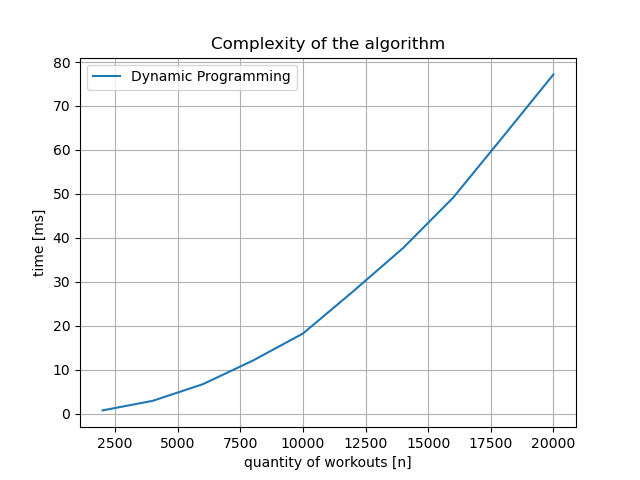
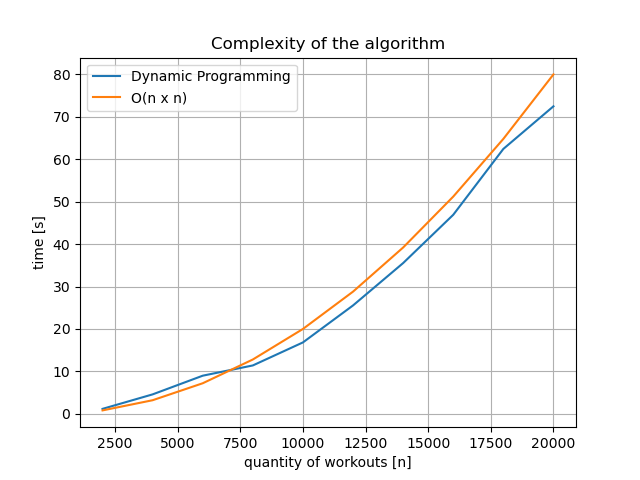
Updating graphics

diff --git a/tp2/graphics.py b/tp2/graphics.py
@@ -10,6 +10,9 @@ MIN = 1
 MAX = 100
 AX = [i for i in range(MINTESTS, MAXTESTS+1, MINTESTS)]
 
+def cuad(n):
+    return 0.0000002 * n**2
+
 def getGraph():
     tests = []
     for i in range(1, NUMTESTS+1):
@@ -34,8 +37,12 @@ def getGraph():
         print("Finished test ", numberTest)
         numberTest += 1
         times.append(dt)
+
+    complexity = [cuad(n) for n in AX]
+
     fig, ax = plt.subplots()
     ax.plot(AX, times, label= 'Dynamic Programming')
+    ax.plot(AX, complexity, label= 'O(n x n)')
     ax.set(xlabel='quantity of workouts [n]', ylabel='time [s]', title='Complexity of the algorithm')
     ax.grid()
     
@@ -44,53 +51,9 @@ def getGraph():
     fig.savefig('graphic.png')
     plt.show()
 
-'''
-def getComparison():
-    test = []
-    times = []
-    for _ in range(NUMTESTS):
-        test.append((randint(10, 100), randint(10, 100)))
-
-    copy1 = test[:]
-    copy2 = test[:]
-    copy3 = test[:]
-    copy4 = test[:]
-    copy5 = test[:]
-
-    times.append(scaloneta.main(copy1))
-    times.append(asItComes(copy2))
-    times.append(sortByScaloniAsc(copy3))
-    times.append(sortByScaloniDesc(copy4))
-    times.append(sortByAssistAsc(copy5))
-
-    names = ["Our solution", "As it comes", "Sorted by Scaloni ASC", "Sorted by Scaloni DESC", "Sorted by assistants ASC"]
-
-    fig, ax = plt.subplots()
-    ax.barh(names, times)
-    ax.set(xlabel='Total time', ylabel='Algoritms', title='Complexity of differents algorithms')
-    
-    # Add padding between axes and labels
-    ax.xaxis.set_tick_params(pad = 5)
-    ax.yaxis.set_tick_params(pad = 10)
-
-    # Add x, y gridlines
-    ax.grid(visible = True, color ='grey', linestyle ='-.', linewidth = 0.5, alpha = 0.2)
-
-    # Add annotation to bars
-    for i in ax.patches:
-        plt.text(i.get_width()+0.2, i.get_y()+0.5,
-             str(round((i.get_width()), 2)),
-             fontsize = 10, fontweight ='bold',
-             color ='grey')
-
-    fig.savefig('comparison.png')
-    plt.show()
-'''
 def main():
     getGraph()
-    #getComparison()
 
 if __name__ == "__main__":
     main()
-
 
